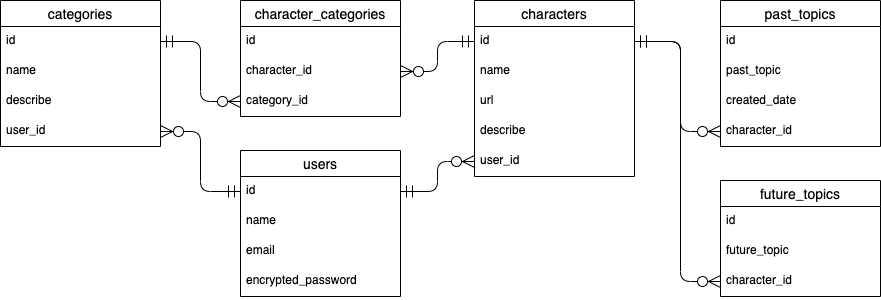
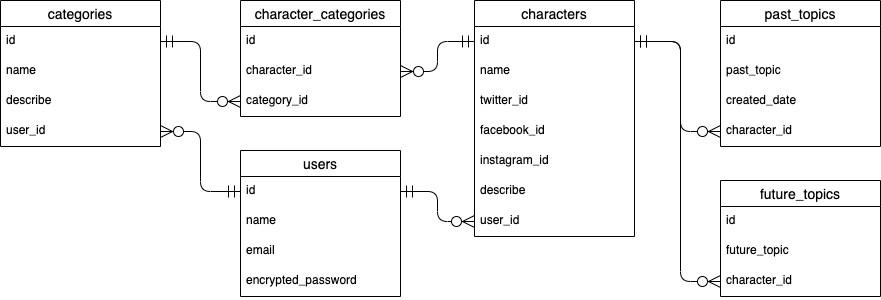
DB設計変更（SNSアカウントのカラム追加）

diff --git a/README.md b/README.md
@@ -17,12 +17,14 @@
 
 ## characters テーブル
 
-| Column   | Type       | Options                        |
-| -------- | ---------- | ------------------------------ |
-| name     | string     | null: false                    |
-| url      | string     |                                |
-| describe | text       |                                |
-| user_id  | references | null: false, foreign_key: true |
+| Column    | Type       | Options                        |
+| --------- | ---------- | ------------------------------ |
+| name      | string     | null: false                    |
+| twitter   | string     |                                |
+| facebook  | string     |                                |
+| instagram | string     |                                |
+| describe  | text       |                                |
+| user_id   | references | null: false, foreign_key: true |
 
 - image保存はActiveStorageを使用
 
